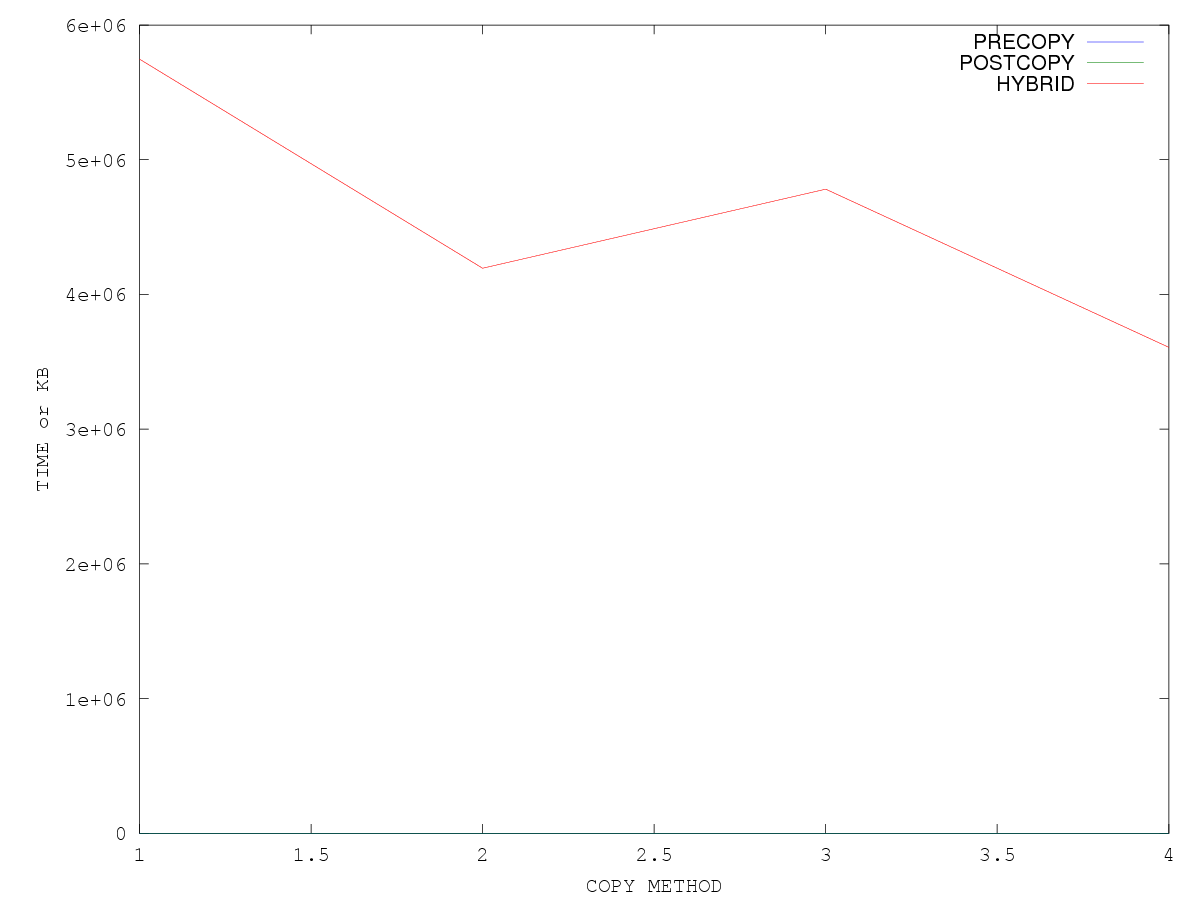
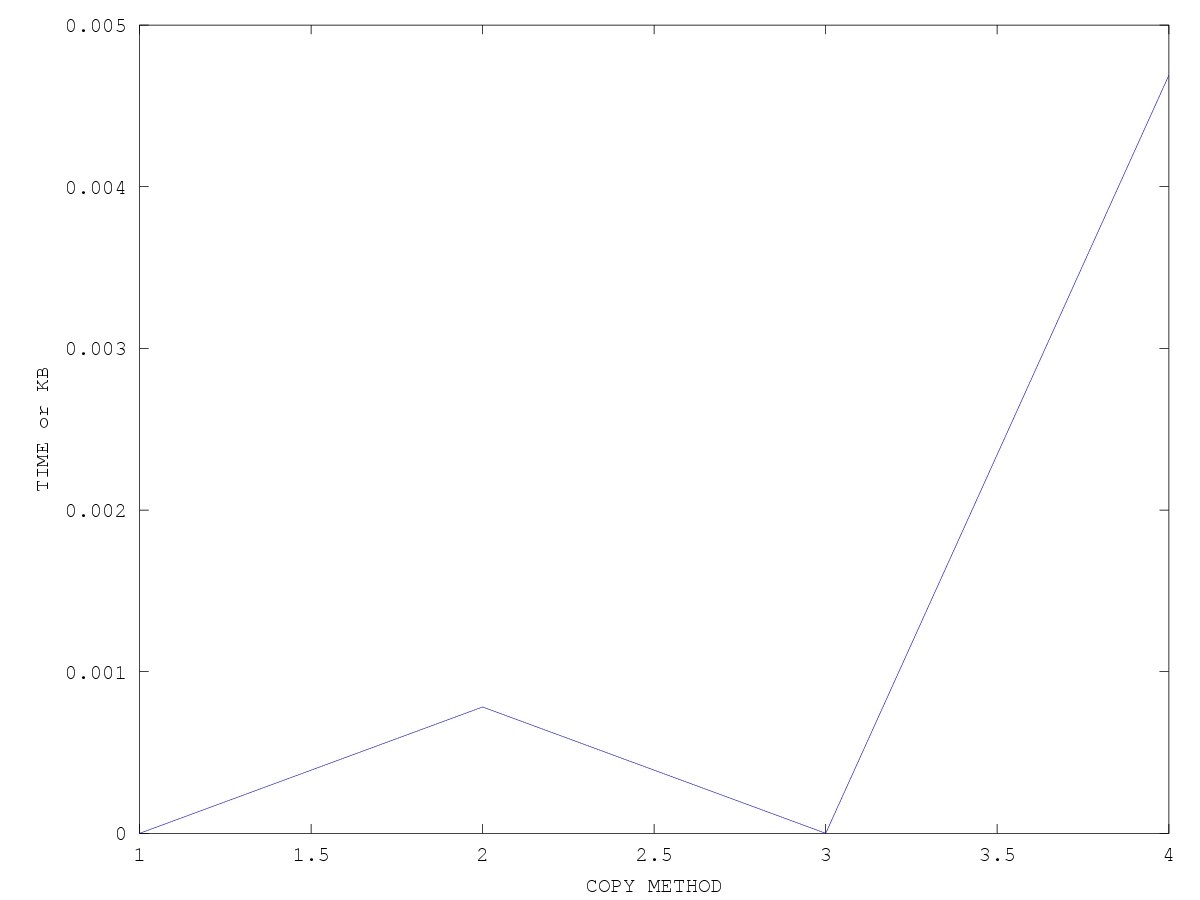
basic.m

Changed region(s): [[0.8017, 0.0311, 0.8942, 0.1244], [0.0617, 0.4667, 0.0925, 0.4978], [0.0617, 0.1556, 0.0925, 0.1867]]

diff --git a/basic.m b/basic.m
@@ -219,10 +219,10 @@ figure;
 output = prefix
 x = 1:1:length(A);
 %plot(x, A(:,2)/1000000, x, A(:,3)/1000000, '-.*');
-plot(A(:,:));
+plot(A(:,2));
 xlabel('COPY METHOD');
 ylabel('TIME or KB');
-legend('PRECOPY', 'POSTCOPY', 'HYBRID', 'PRO-HYBRID');
+%legend('PRECOPY', 'POSTCOPY', 'HYBRID', 'PRO-HYBRID');
 %legend('AGGREGATE', 'INDIVIDUAL');
 
 saveas (1, strcat(output, ".png"));
